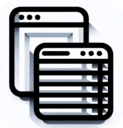
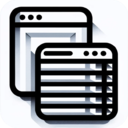
2023-11-07T18-29-31Z

diff --git a/convert_screenshots.py b/convert_screenshots.py
@@ -49,10 +49,13 @@ def main():
                     f"{icon_file_path.stem}-{size}x{size}{icon_file_path.suffix}"
                 )
                 icon_file_path_output = icon_file_path.parent / icon_file_name
-                command = f"convert -resize {size}x{size} {quote(str(icon_file_path))} {quote(str(icon_file_path_output))}"
+                # command = f"convert -resize {size}x{size} {quote(str(icon_file_path))} {quote(str(icon_file_path_output))}"
+                # distort
+                command = f"convert -resize {size}x{size}! {quote(str(icon_file_path))} {quote(str(icon_file_path_output))}"
 
                 # Execute the convert command
                 try:
+                    print(f'Running command "{command}"')
                     subprocess.run(command, check=True, shell=True)
                     print(f"Created icon {icon_file_path_output}")
                 except subprocess.CalledProcessError as e:
